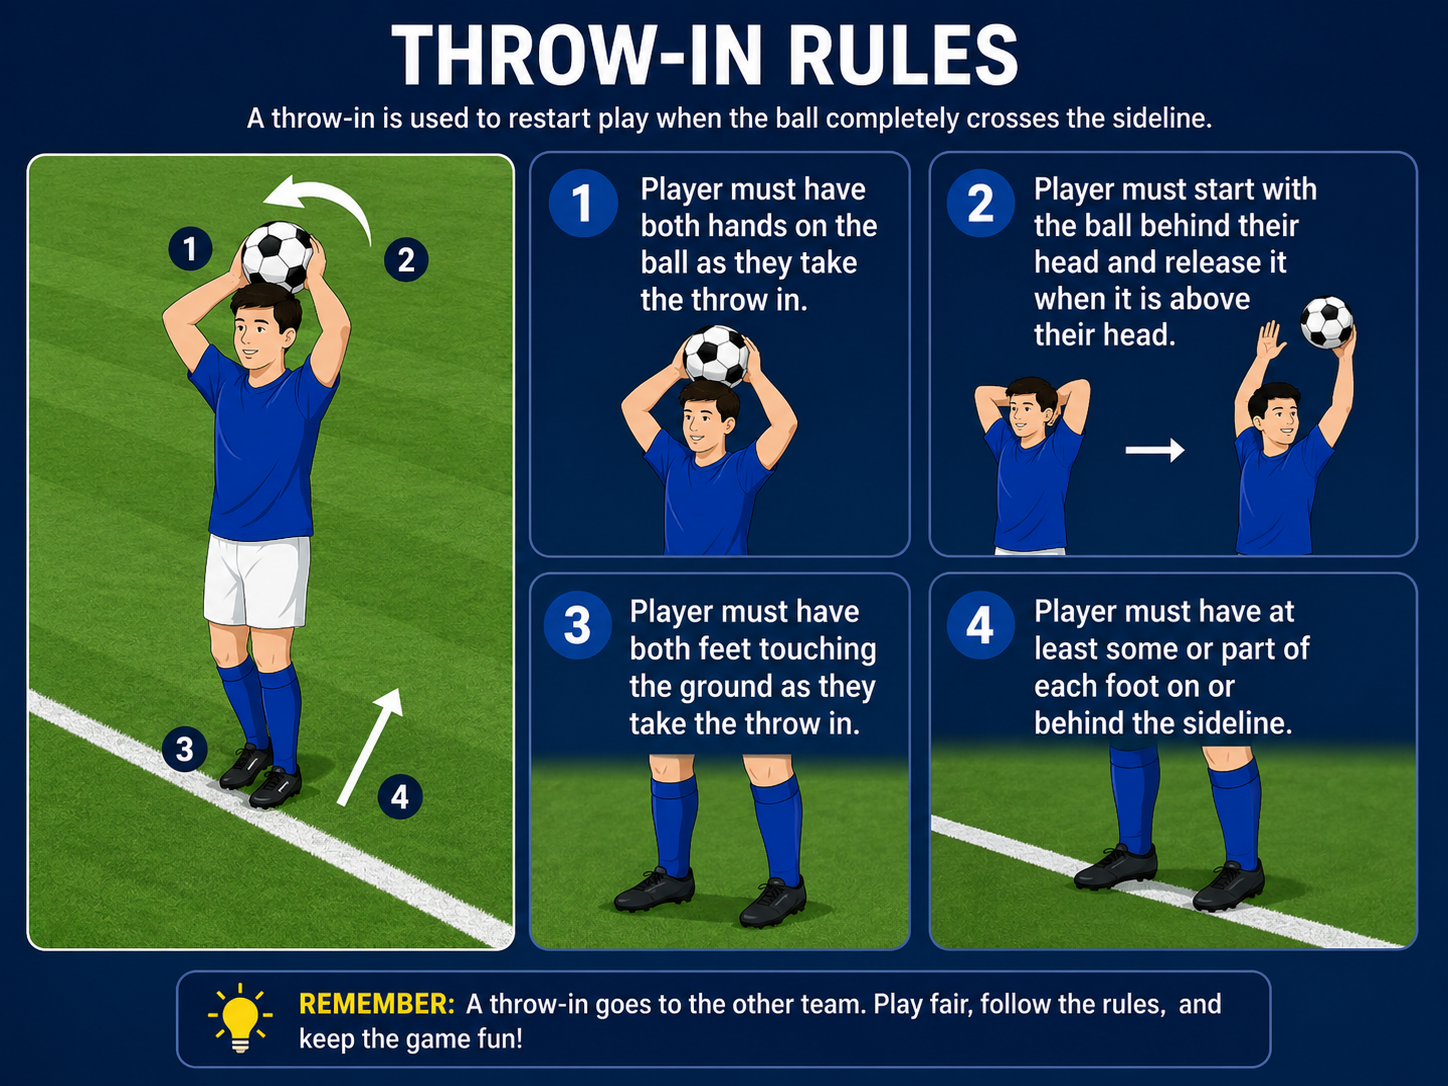
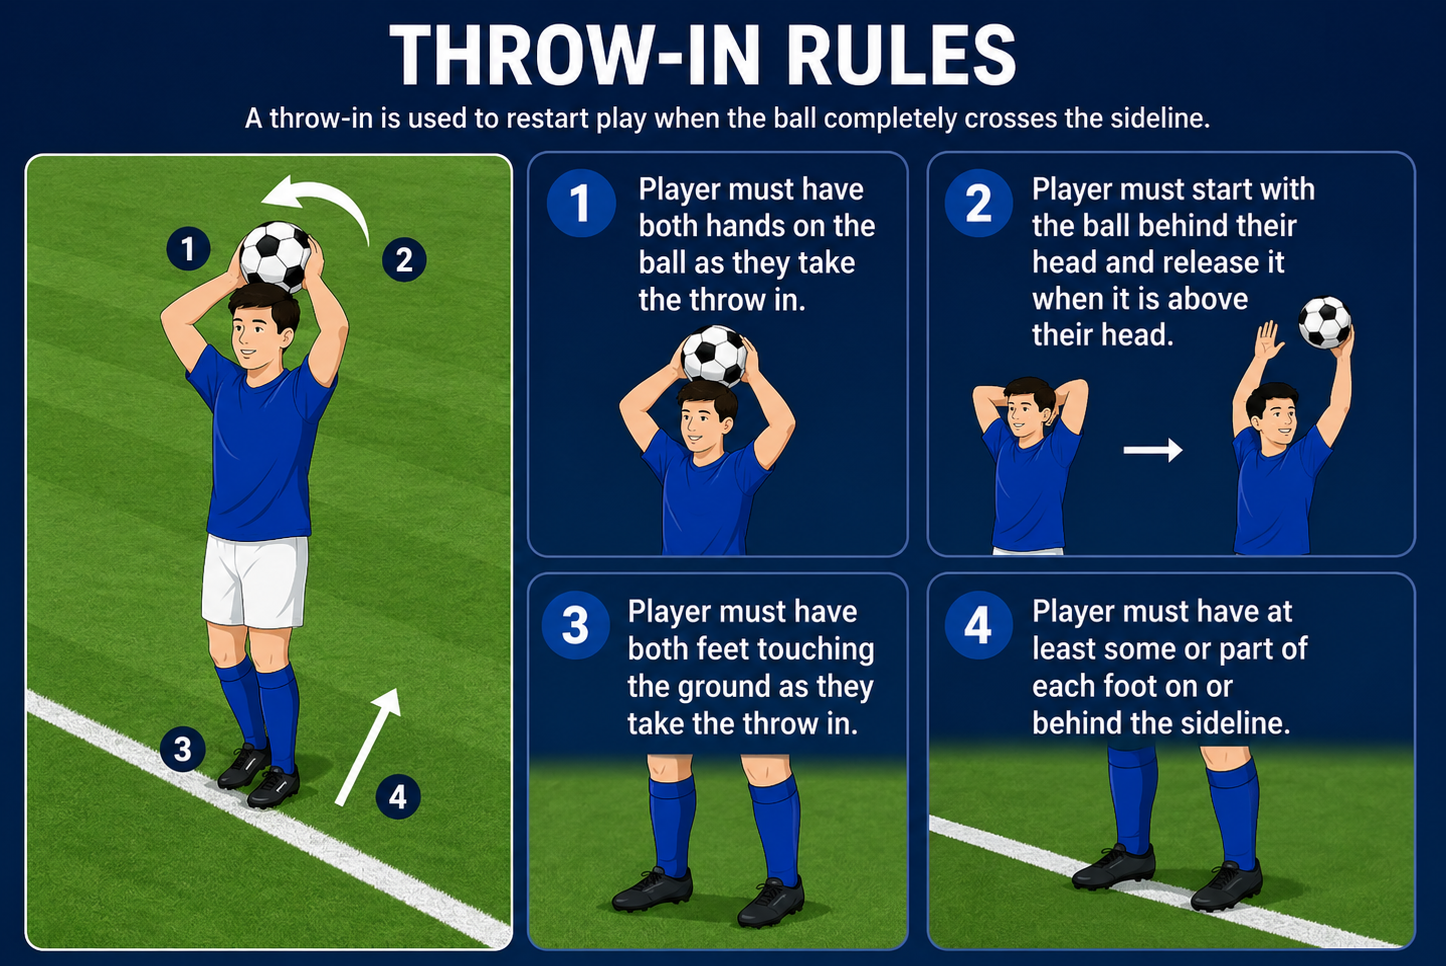
Added images for information

diff --git a/app/info/page.tsx b/app/info/page.tsx
@@ -82,7 +82,7 @@ export default function InfoPage() {
 
         <div className="bg-zinc-900 rounded-xl p-6 mb-8">
           <h2 className="text-3xl font-bold mb-4">
-            🚩 General Positions
+            📍 General Positions
           </h2>
 
           <Image
@@ -133,7 +133,7 @@ export default function InfoPage() {
           </h2>
 
           <Image
-            src="/rules/throw-in.png"
+            src="/rules/throw-in1.png"
             alt="Throw In"
             width={1000}
             height={600}
@@ -154,7 +154,7 @@ export default function InfoPage() {
           </h2>
 
           <Image
-            src="/rules/handball.png"
+            src="/rules/handball1.png"
             alt="Handball"
             width={1000}
             height={600}